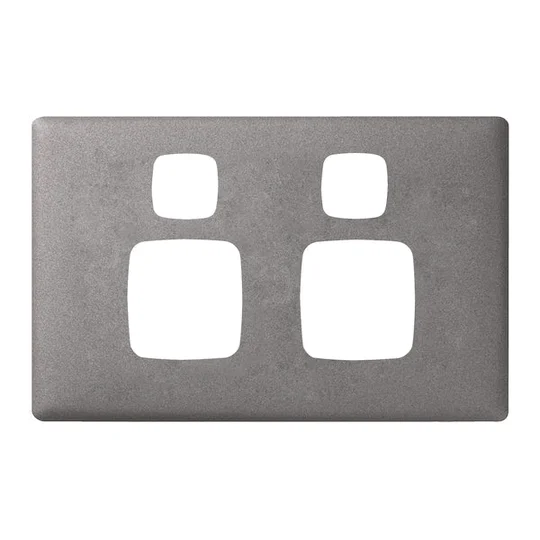
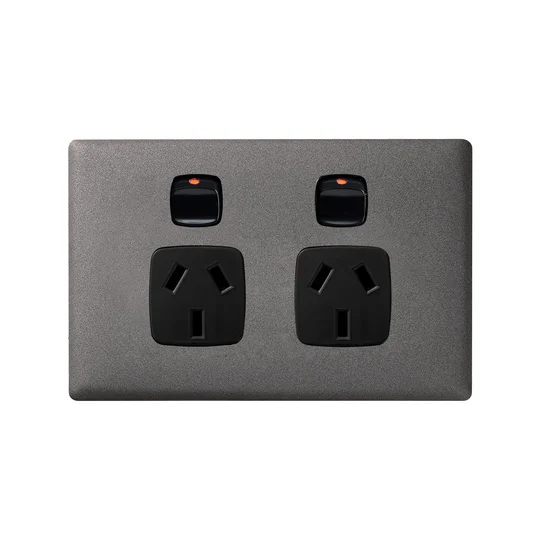
Show complete HPM Linea outlets for white, silver and gunmetal

diff --git a/src/lib/powerPointStyles.ts b/src/lib/powerPointStyles.ts
@@ -298,20 +298,20 @@ export const powerPointStyles: PowerPointStyle[] = [
   {
     "title": "HPM Linea — White",
     "image": "hpm-linea-white",
-    "label": "Interchangeable colour cover",
-    "text": "A white cover plate to coordinate a compatible HPM Linea double power point with your room.",
-    "detail": "Cover plate only shown; quoted with the compatible outlet. Confirm the base colour and stock when enquiring.",
-    "source": "https://www.powerpointsandswitches.com.au/products/hpm-linear-double-switch-socket-cover-plate-only-10-colour-finishes?variant=43917876265273",
-    "photoType": "cover"
+    "label": "Slim & modern",
+    "text": "A complete white Linea double power point with matching white sockets and switches.",
+    "detail": "Complete outlet shown. I'll confirm the correct fitting and installation when quoting.",
+    "source": "https://www.hpm.com.au/en/catalog/products/hpm-linea-horizontal-double-power-point-white-cdln777wewe",
+    "photoType": "outlet"
   },
   {
     "title": "HPM Linea — Matt Silver",
     "image": "hpm-linea-matt-silver",
-    "label": "Interchangeable colour cover",
-    "text": "A matt silver cover plate to coordinate a compatible HPM Linea double power point with your room.",
-    "detail": "Cover plate only shown; quoted with the compatible outlet. Confirm the base colour and stock when enquiring.",
-    "source": "https://www.powerpointsandswitches.com.au/products/hpm-linear-double-switch-socket-cover-plate-only-10-colour-finishes?variant=43917876330809",
-    "photoType": "cover"
+    "label": "Slim & modern",
+    "text": "A complete Linea double power point with a matt silver faceplate and white sockets and switches.",
+    "detail": "Complete outlet shown: CDLN777WEMS. Confirm current supply when quoting.",
+    "source": "https://www.hpm.com.au/en/catalog/electrical/power-points-switches-by-range/linea/power-points",
+    "photoType": "outlet"
   },
   {
     "title": "HPM Linea — Asphalt",
@@ -325,11 +325,11 @@ export const powerPointStyles: PowerPointStyle[] = [
   {
     "title": "HPM Linea — Gun Metal",
     "image": "hpm-linea-gun-metal",
-    "label": "Interchangeable colour cover",
-    "text": "A gun metal cover plate to coordinate a compatible HPM Linea double power point with your room.",
-    "detail": "Cover plate only shown; quoted with the compatible outlet. Confirm the base colour and stock when enquiring.",
-    "source": "https://www.powerpointsandswitches.com.au/products/hpm-linear-double-switch-socket-cover-plate-only-10-colour-finishes?variant=43917876396345",
-    "photoType": "cover"
+    "label": "Slim & modern",
+    "text": "A complete Linea double power point with a gunmetal faceplate and black sockets and switches.",
+    "detail": "Complete outlet shown: CDLN777BLGL. Confirm current supply when quoting.",
+    "source": "https://www.hpm.com.au/en/catalog/products/hpm-linea-horizontal-double-power-point-blackgunmetal-cdln777blgl",
+    "photoType": "outlet"
   },
   {
     "title": "HPM Linea — Ghost Gum",

diff --git a/src/components/PowerPointsDetails.tsx b/src/components/PowerPointsDetails.tsx
@@ -71,6 +71,7 @@ function StyleGallery({ title, images }: { title: string; images: string[] }) {
             onClick={() => goTo(selected + 1)} className="absolute right-1 top-1/2 -translate-y-1/2 rounded-full border bg-white p-2 text-slate-900 shadow-sm disabled:opacity-25"><ChevronRight size={18} /></button>
         </>}
       </div>
+      {title === "HPM Linea" && <p className="mb-4 rounded-lg bg-muted px-3 py-2 text-xs font-semibold">{active.photoType === "cover" ? "Colour cover only — complete power point photo unavailable" : "Complete power point shown"}</p>}
       <h3 className="text-xl font-bold tracking-tight">{title}</h3>
       <div ref={colourRow} className="relative mt-3 flex gap-2 overflow-x-auto pb-2" aria-label={title + " finishes"}>
         {variants.map((variant, index) => (

diff --git a/docs/power-point-photo-sources.md b/docs/power-point-photo-sources.md
@@ -1,5 +1,15 @@
 # Power point gallery sources
 
+## Linea complete-outlet correction — 12 October 2026
+
+White (CDLN777WEWE), Matt Silver/White (CDLN777WEMS) and Gunmetal/Black (CDLN777BLGL) now use complete outlet photos. Black already showed a complete outlet. The six remaining Linea finish images have prominent cover-only labels.
+
+- White photo: https://ccapi.mitre10.co.nz/medias/sys_master/productimages/h3e/h70/8809998155806/Mitre10-1500x1500_173192xlg/Mitre10-1500x1500-173192xlg.jpg ; source https://www.mitre10.co.nz/shop/hpm-linea-horizontal-double-powerpoint-10-amp-white/p/173192
+- Matt Silver photo: https://cdn.shopify.com/s/files/1/0662/6007/4614/files/d1513520b7a94466b9fa2b97e952db12_7a241da1-c870-4b03-b859-b17a53fab29d.jpg?v=1769777756 ; source https://www.supersaverau.com.au/products/hpm-linea-double-powerpoint
+- Gunmetal photo: https://cdn.shopify.com/s/files/1/0662/6007/4614/files/69c69a4760e446ec80dd0fa847f9f0ca.jpg?v=1786715623 ; source https://www.supersaverau.com.au/products/hpm-gun-metal-black-linea-double-powerpoint-82mm-abs-slim-design
+
+All three photographs visually checked for sockets and switches. Model and finish combinations checked against https://www.hpm.com.au/en/catalog/electrical/power-points-switches-by-range/linea/power-points .
+
 The gallery shows representative Australian product ranges, ordered by visual
 style from premium designer finishes to everyday white fittings. It is not a
 claim about sales rankings. Product-page links are stored alongside each card
